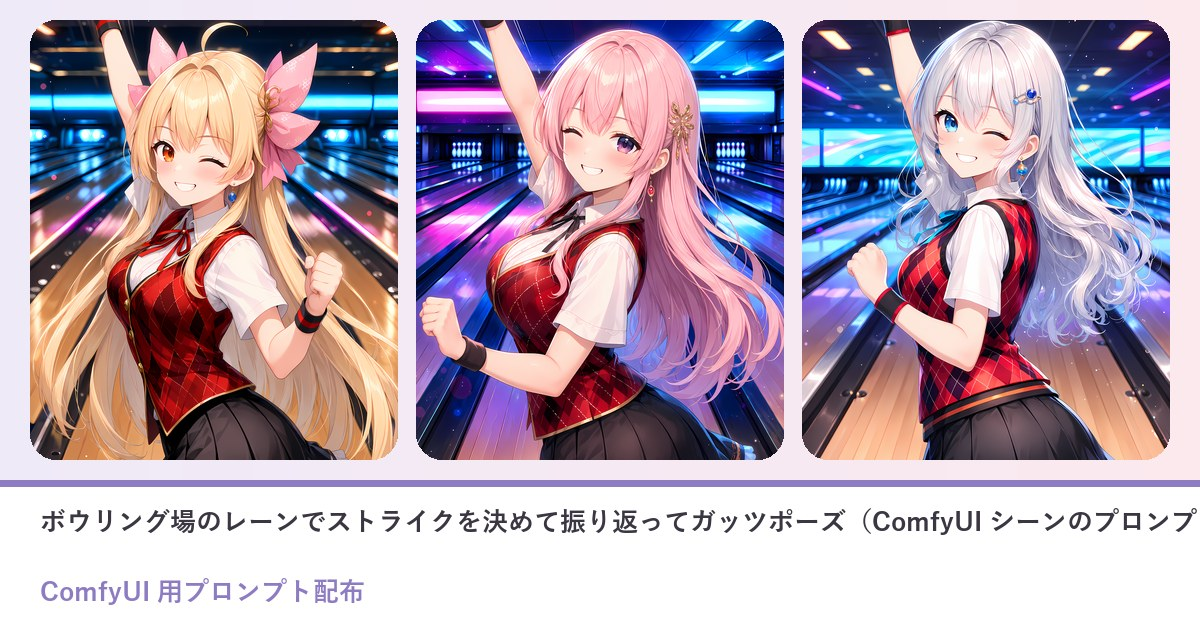
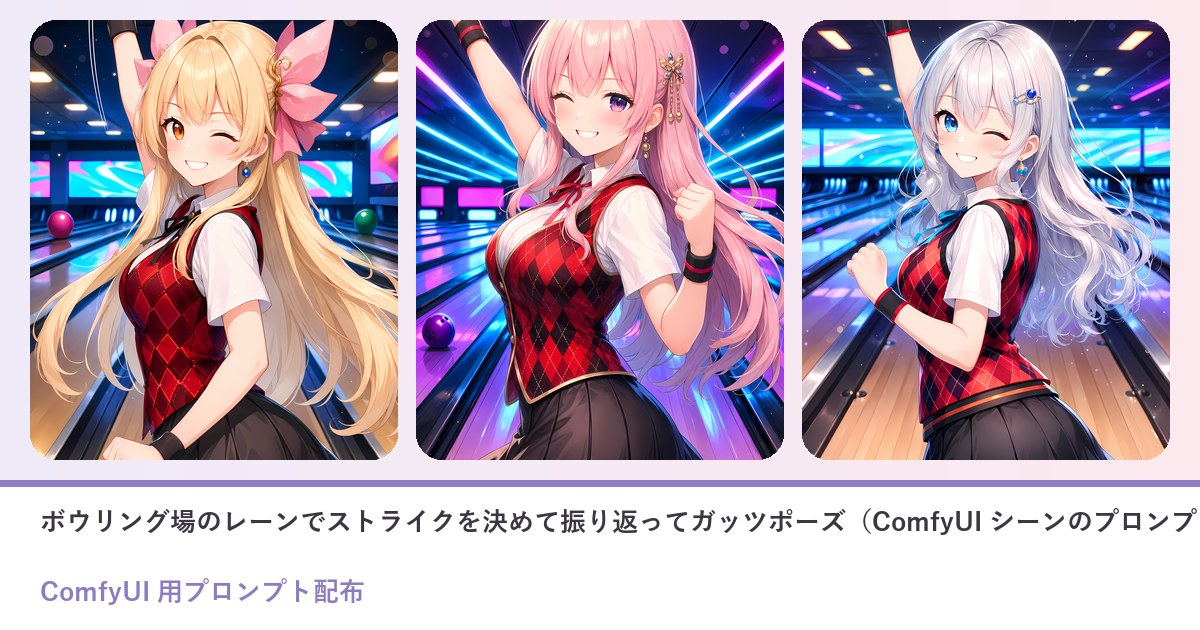
配布 11/08 三姉妹 ボウリング アイリス・フィオナの作例を指を直した版へ（るぴちゃん再生成・子 regen1107）

diff --git a/prompts/2026-11-08-comfy-xxqqeknv.html b/prompts/2026-11-08-comfy-xxqqeknv.html
@@ -1,4 +1,4 @@
-<!DOCTYPE html><html lang="ja"><head><meta charset="UTF-8"><meta name="robots" content="noindex, nofollow, noarchive"><meta name="referrer" content="strict-origin"><meta name="viewport" content="width=device-width, initial-scale=1.0"><meta name="google-site-verification" content="vmr51R1zcK5z3btUMgFGf_4-Veo8pUE7TCdoEpaSpaI"><title>ボウリング場のレーンでストライクを決めて振り返ってガッツポーズ（ComfyUI シーンのプロンプト）</title><meta name="description" content="ComfyUI（Anima）に貼るだけで、思わず声が出ちゃうストライクの一枚に。ネオンの灯るレトロなボウリング場、奥でピンが全部はじけ飛ぶのを背に、赤いベストの女の子がこちらへ振り返って、ウインクしながら片手でガッツポー"><link rel="icon" href="../favicon.ico" sizes="any"><link rel="icon" type="image/png" sizes="32x32" href="../favicon-32x32.png"><link rel="apple-touch-icon" href="../apple-touch-icon.png"><link rel="canonical" href="https://lupinusrossetti.github.io/AIBSPortfolioBlog/prompts/2026-11-08-comfy-xxqqeknv.html"><meta property="og:type" content="article"><meta property="og:site_name" content="Lupinus Rossetti | AI Bloom Sisters"><meta property="og:title" content="ボウリング場のレーンでストライクを決めて振り返ってガッツポーズ（ComfyUI シーンのプロンプト）"><meta property="og:description" content="ComfyUI（Anima）に貼るだけで、思わず声が出ちゃうストライクの一枚に。ネオンの灯るレトロなボウリング場、奥でピンが全部はじけ飛ぶのを背に、赤いベストの女の子がこちらへ振り返って、ウインクしながら片手でガッツポー"><meta property="og:url" content="https://lupinusrossetti.github.io/AIBSPortfolioBlog/prompts/2026-11-08-comfy-xxqqeknv.html"><meta property="og:image" content="https://lupinusrossetti.github.io/AIBSPortfolioBlog/prompts/img/2026-11-08-comfy-xxqqeknv/og.jpg"><meta name="twitter:card" content="summary_large_image"><meta name="twitter:site" content="@irisfionaAIBS"><meta name="twitter:title" content="ボウリング場のレーンでストライクを決めて振り返ってガッツポーズ（ComfyUI シーンのプロンプト）"><meta name="twitter:description" content="ComfyUI（Anima）に貼るだけで、思わず声が出ちゃうストライクの一枚に。ネオンの灯るレトロなボウリング場、奥でピンが全部はじけ飛ぶのを背に、赤いベストの女の子がこちらへ振り返って、ウインクしながら片手でガッツポー"><meta name="twitter:image" content="https://lupinusrossetti.github.io/AIBSPortfolioBlog/prompts/img/2026-11-08-comfy-xxqqeknv/og.jpg"><script type="application/ld+json">{"@context": "https://schema.org", "@type": "Article", "headline": "ボウリング場のレーンでストライクを決めて振り返ってガッツポーズ（ComfyUI シーンのプロンプト）", "description": "ComfyUI（Anima）に貼るだけで、思わず声が出ちゃうストライクの一枚に。ネオンの灯るレトロなボウリング場、奥でピンが全部はじけ飛ぶのを背に、赤いベストの女の子がこちらへ振り返って、ウインクしながら片手でガッツポー", "image": "https://lupinusrossetti.github.io/AIBSPortfolioBlog/prompts/img/2026-11-08-comfy-xxqqeknv/og.jpg", "url": "https://lupinusrossetti.github.io/AIBSPortfolioBlog/prompts/2026-11-08-comfy-xxqqeknv.html", "mainEntityOfPage": "https://lupinusrossetti.github.io/AIBSPortfolioBlog/prompts/2026-11-08-comfy-xxqqeknv.html", "author": {"@type": "Person", "name": "Lupinus Rossetti"}, "publisher": {"@type": "Organization", "name": "Lupinus Rossetti | AI Bloom Sisters", "logo": {"@type": "ImageObject", "url": "https://lupinusrossetti.github.io/AIBSPortfolioBlog/apple-touch-icon.png"}}, "inLanguage": "ja-JP"}</script><link rel="stylesheet" href="../assets/css/site.css"><link rel="stylesheet" href="../assets/css/decorations.css"><link rel="preconnect" href="https://fonts.googleapis.com"><link rel="preconnect" href="https://fonts.gstatic.com" crossorigin><link href="https://fonts.googleapis.com/css2?family=Great+Vibes&family=Cormorant+Garamond:ital,wght@0,400;0,500;0,600;1,400;1,500&family=Jost:wght@300;400;500&family=Shippori+Mincho:wght@400;500;600&family=Zen+Kaku+Gothic+New:wght@300;400;500&family=Zen+Maru+Gothic:wght@400;500;700&display=swap" rel="stylesheet"><style>:root{--ps-a:var(--lupinus,#8e7cc3);--ps-soft:var(--lupinus-soft,#efeaf8);--ps-line:var(--line,#ece7f1);--ps-ink:var(--ink-soft,#6f6a78)}
+<!DOCTYPE html><html lang="ja"><head><meta charset="UTF-8"><meta name="robots" content="noindex, nofollow, noarchive"><meta name="referrer" content="strict-origin"><meta name="viewport" content="width=device-width, initial-scale=1.0"><meta name="google-site-verification" content="vmr51R1zcK5z3btUMgFGf_4-Veo8pUE7TCdoEpaSpaI"><title>ボウリング場のレーンでストライクを決めて振り返ってガッツポーズ（ComfyUI シーンのプロンプト）</title><meta name="description" content="ComfyUI（Anima）に貼るだけで、思わず声が出ちゃうストライクの一枚に。ネオンの灯るレトロなボウリング場のレーンを背に、赤いベストの女の子がこちらへ振り返って、ウインクしながら片手でガッツポーズ。LoRA がない"><link rel="icon" href="../favicon.ico" sizes="any"><link rel="icon" type="image/png" sizes="32x32" href="../favicon-32x32.png"><link rel="apple-touch-icon" href="../apple-touch-icon.png"><link rel="canonical" href="https://lupinusrossetti.github.io/AIBSPortfolioBlog/prompts/2026-11-08-comfy-xxqqeknv.html"><meta property="og:type" content="article"><meta property="og:site_name" content="Lupinus Rossetti | AI Bloom Sisters"><meta property="og:title" content="ボウリング場のレーンでストライクを決めて振り返ってガッツポーズ（ComfyUI シーンのプロンプト）"><meta property="og:description" content="ComfyUI（Anima）に貼るだけで、思わず声が出ちゃうストライクの一枚に。ネオンの灯るレトロなボウリング場のレーンを背に、赤いベストの女の子がこちらへ振り返って、ウインクしながら片手でガッツポーズ。LoRA がない"><meta property="og:url" content="https://lupinusrossetti.github.io/AIBSPortfolioBlog/prompts/2026-11-08-comfy-xxqqeknv.html"><meta property="og:image" content="https://lupinusrossetti.github.io/AIBSPortfolioBlog/prompts/img/2026-11-08-comfy-xxqqeknv/og.jpg"><meta name="twitter:card" content="summary_large_image"><meta name="twitter:site" content="@irisfionaAIBS"><meta name="twitter:title" content="ボウリング場のレーンでストライクを決めて振り返ってガッツポーズ（ComfyUI シーンのプロンプト）"><meta name="twitter:description" content="ComfyUI（Anima）に貼るだけで、思わず声が出ちゃうストライクの一枚に。ネオンの灯るレトロなボウリング場のレーンを背に、赤いベストの女の子がこちらへ振り返って、ウインクしながら片手でガッツポーズ。LoRA がない"><meta name="twitter:image" content="https://lupinusrossetti.github.io/AIBSPortfolioBlog/prompts/img/2026-11-08-comfy-xxqqeknv/og.jpg"><script type="application/ld+json">{"@context": "https://schema.org", "@type": "Article", "headline": "ボウリング場のレーンでストライクを決めて振り返ってガッツポーズ（ComfyUI シーンのプロンプト）", "description": "ComfyUI（Anima）に貼るだけで、思わず声が出ちゃうストライクの一枚に。ネオンの灯るレトロなボウリング場のレーンを背に、赤いベストの女の子がこちらへ振り返って、ウインクしながら片手でガッツポーズ。LoRA がない", "image": "https://lupinusrossetti.github.io/AIBSPortfolioBlog/prompts/img/2026-11-08-comfy-xxqqeknv/og.jpg", "url": "https://lupinusrossetti.github.io/AIBSPortfolioBlog/prompts/2026-11-08-comfy-xxqqeknv.html", "mainEntityOfPage": "https://lupinusrossetti.github.io/AIBSPortfolioBlog/prompts/2026-11-08-comfy-xxqqeknv.html", "author": {"@type": "Person", "name": "Lupinus Rossetti"}, "publisher": {"@type": "Organization", "name": "Lupinus Rossetti | AI Bloom Sisters", "logo": {"@type": "ImageObject", "url": "https://lupinusrossetti.github.io/AIBSPortfolioBlog/apple-touch-icon.png"}}, "inLanguage": "ja-JP"}</script><link rel="stylesheet" href="../assets/css/site.css"><link rel="stylesheet" href="../assets/css/decorations.css"><link rel="preconnect" href="https://fonts.googleapis.com"><link rel="preconnect" href="https://fonts.gstatic.com" crossorigin><link href="https://fonts.googleapis.com/css2?family=Great+Vibes&family=Cormorant+Garamond:ital,wght@0,400;0,500;0,600;1,400;1,500&family=Jost:wght@300;400;500&family=Shippori+Mincho:wght@400;500;600&family=Zen+Kaku+Gothic+New:wght@300;400;500&family=Zen+Maru+Gothic:wght@400;500;700&display=swap" rel="stylesheet"><style>:root{--ps-a:var(--lupinus,#8e7cc3);--ps-soft:var(--lupinus-soft,#efeaf8);--ps-line:var(--line,#ece7f1);--ps-ink:var(--ink-soft,#6f6a78)}
 .ps{max-width:780px;margin:0 auto;padding:0 18px 40px}
 .ps h2{font-size:1.25rem;margin:40px 0 12px;color:var(--ps-a)}
 .ps .ps-lead{color:var(--ps-ink);line-height:1.9}
@@ -45,7 +45,7 @@
 @media(max-width:560px){.ps-ba{grid-template-columns:1fr}.ps-ba .arr{transform:rotate(90deg);text-align:center}.ps-vars,.ps-vars tbody,.ps-vars tr,.ps-vars th,.ps-vars td{display:block;width:auto;white-space:normal}.ps-vars tr:first-child{display:none}.ps-vars tr{border-bottom:1px solid var(--ps-line);padding:4px 0}.ps-vars th,.ps-vars td{border:0;padding:6px 12px}}
 .ps{overflow-wrap:anywhere}.ps-vars td,.ps-vars th{overflow-wrap:anywhere}.ps img{max-width:100%}
 </style><!--ps-meta {"date": "2026-11-08", "title": "ボウリング場のレーンでストライクを決めて振り返ってガッツポーズ（ComfyUI シーンのプロンプト）", "kind": "comfy", "nsfw": false, "summary": "ボウリング場のレーンで、ストライクを決めて振り返ってガッツポーズする一枚。LoRA なしでも貼るだけで綺麗に出ます。", "thumb": "img/2026-11-08-comfy-xxqqeknv/ex1.webp"}-->
-</head><body class="decor-page decor-bubble"><div class="page-decor" aria-hidden="true"><div class="decor-layer decor-bubble-layer"><i></i><i></i><i></i><i></i><i></i><i></i><i></i><i></i><i></i><i></i><i></i><i></i></div></div><header class="site-header"><div class="container"><a class="brand" href="../index.html"><span class="brand-script">Lupinus</span><span class="brand-sub">AI Bloom Sisters</span></a><button class="menu-toggle" aria-label="menu" onclick="document.getElementById('nav').classList.toggle('open')">≡</button><nav class="nav" id="nav"><a href="../index.html">Home</a><a href="../about.html">About</a><a href="../portfolio.html">Portfolio</a><a href="../gallery.html">Gallery</a><a href="../blog/index.html" class="active">Blog</a><a href="../sns.html">SNS</a><a href="../coming-soon.html">Contact</a></nav></div></header><main class="article"><header class="article-header"><div class="date">2026-11-08<span class="day-chip">プロンプト配布</span></div><h1>ボウリング場のレーンでストライクを決めて振り返ってガッツポーズ（ComfyUI シーンのプロンプト）</h1></header><div class="article-body"><div class="ps"><p><span class="ps-badge">ComfyUI 用</span><span class="ps-badge">2026-11-08</span></p><p class="ps-lead">ComfyUI（Anima）に貼るだけで、思わず声が出ちゃうストライクの一枚に。ネオンの灯るレトロなボウリング場、奥でピンが全部はじけ飛ぶのを背に、赤いベストの女の子がこちらへ振り返って、ウインクしながら片手でガッツポーズ。LoRA がない方は、1行目の髪の色と目の色を書き換えるだけで、あなたの子に近づけられます。</p><nav class="ps-toc" aria-label="目次"><p>📑 目次</p><ol><li><a href="#sec1">作例</a></li><li><a href="#sec2">3人のおしゃべり（ボウリング場のストライク）</a></li><li><a href="#sec3">使い方（3ステップ）</a></li><li><a href="#sec4">プロンプト</a></li><li><a href="#sec5">必要なもの（ComfyUI）</a></li><li><a href="#sec6">メモ</a></li><li><a href="#sec7">配布ルール</a></li></ol></nav><h2 id="sec1">作例</h2><div class="ps-ex"><figure><img src="img/2026-11-08-comfy-xxqqeknv/ex1.webp" alt="アイリスの LoRA で焼いた一枚（A のプロンプト）。ネオンが青とピンクに光るボウリング場のレーンで、横向きから振り返ってウインク、歯を見せてにかっと笑う。片腕を高く突き上げて、もう片方の手はぎゅっとこぶしのガッツポーズ、片足を跳ね上げて全身で「やったー！」。白いシャツに赤いリボン、赤いアーガイルのベストと黒いフリルのスカート、手首には黒と赤のリストバンド" loading="lazy"><figcaption>アイリスの LoRA で焼いた一枚（A のプロンプト）。ネオンが青とピンクに光るボウリング場のレーンで、横向きから振り返ってウインク、歯を見せてにかっと笑う。片腕を高く突き上げて、もう片方の手はぎゅっとこぶしのガッツポーズ、片足を跳ね上げて全身で「やったー！」。白いシャツに赤いリボン、赤いアーガイルのベストと黒いフリルのスカート、手首には黒と赤のリストバンド</figcaption></figure><figure><img src="img/2026-11-08-comfy-xxqqeknv/ex2.webp" alt="同じプロンプトをフィオナの LoRA で。ピンクの長い髪に紫の瞳、横向きから振り返ってウインク、歯を見せてにっこり。片手を高く突き上げて、もう片方はおなかの前でぎゅっとこぶし。赤いアーガイルのベストに黒いフリルのスカート、うしろにはネオンが青と紫に光るレーンがずらり" loading="lazy"><figcaption>同じプロンプトをフィオナの LoRA で。ピンクの長い髪に紫の瞳、横向きから振り返ってウインク、歯を見せてにっこり。片手を高く突き上げて、もう片方はおなかの前でぎゅっとこぶし。赤いアーガイルのベストに黒いフリルのスカート、うしろにはネオンが青と紫に光るレーンがずらり</figcaption></figure><figure><img src="img/2026-11-08-comfy-xxqqeknv/ex3.webp" alt="同じプロンプトをルピナスの LoRA で。銀色のふんわりした長い髪に青い瞳、振り返ってウインクしながらのガッツポーズ。腕を高く上げて、黒いリストバンドの手首もきゅっと。赤いアーガイルのベストと黒いスカート、奥には光るレーンと小さく並んだピン" loading="lazy"><figcaption>同じプロンプトをルピナスの LoRA で。銀色のふんわりした長い髪に青い瞳、振り返ってウインクしながらのガッツポーズ。腕を高く上げて、黒いリストバンドの手首もきゅっと。赤いアーガイルのベストと黒いスカート、奥には光るレーンと小さく並んだピン</figcaption></figure></div><p style="font-size:.82rem;color:var(--ps-ink)">※作例の画像の転載・保存しての再配布はご遠慮ください。</p><h2 id="sec2">3人のおしゃべり（ボウリング場のストライク）</h2><div class="ps-chat"><img src="img/2026-11-08-comfy-xxqqeknv/talk_fiona_normal.webp" alt="フィオナ" loading="lazy"><div><div class="who">フィオナ</div><div class="bub">ご報告です。アイリスちゃん、今日はもう三回ストライクを出しています。そのたびに決めポーズつきです</div></div></div><div class="ps-chat r"><img src="img/2026-11-08-comfy-xxqqeknv/talk_lupinus_happy.webp" alt="ルピナス" loading="lazy"><div><div class="who">ルピナス</div><div class="bub">採点係はわたしだよ。一回目のポーズは百点、二回目も百点、三回目も……百点！</div></div></div><div class="ps-chat r"><img src="img/2026-11-08-comfy-xxqqeknv/talk_iris_smug.webp" alt="アイリス" loading="lazy"><div><div class="who">アイリス</div><div class="bub">さっすがお姉ちゃん、見る目ある！ 次は振り返ってウインクのガッツポーズでいくよ！</div></div></div><div class="ps-chat"><img src="img/2026-11-08-comfy-xxqqeknv/talk_fiona_thinking.webp" alt="フィオナ" loading="lazy"><div><div class="who">フィオナ</div><div class="bub">お姉ちゃん、全部百点だと採点の意味がありません……。それに私は、ポーズよりピンの数が気になります</div></div></div><div class="ps-chat r"><img src="img/2026-11-08-comfy-xxqqeknv/talk_lupinus_wink.webp" alt="ルピナス" loading="lazy"><div><div class="who">ルピナス</div><div class="bub">だって、どのアイリスもかわいいんだもの。点はつけられても、差はつけられないよ</div></div></div><div class="ps-chat r"><img src="img/2026-11-08-comfy-xxqqeknv/talk_iris_laugh.webp" alt="アイリス" loading="lazy"><div><div class="who">アイリス</div><div class="bub">ほら、フィオナも審査員やって！ ストライクの「やったー！」は、全身で言うのが大事なんだから！</div></div></div><div class="ps-chat r"><img src="img/2026-11-08-comfy-xxqqeknv/talk_lupinus_normal.webp" alt="ルピナス" loading="lazy"><div><div class="who">ルピナス</div><div class="bub">今日の配布は、ネオンのボウリング場で、振り返ってガッツポーズを決める一枚だよ</div></div></div><div class="ps-chat"><img src="img/2026-11-08-comfy-xxqqeknv/talk_fiona_normal.webp" alt="フィオナ" loading="lazy"><div><div class="who">フィオナ</div><div class="bub">横から振り返るのは from side と looking back、ガッツポーズは fist pump と arm up です</div></div></div><div class="ps-chat r"><img src="img/2026-11-08-comfy-xxqqeknv/talk_iris_happy.webp" alt="アイリス" loading="lazy"><div><div class="who">アイリス</div><div class="bub">ウインクは one eye closed、歯を見せて笑うのは grin と teeth！ あたしの得意な顔！</div></div></div><div class="ps-chat"><img src="img/2026-11-08-comfy-xxqqeknv/talk_fiona_normal.webp" alt="フィオナ" loading="lazy"><div><div class="who">フィオナ</div><div class="bub">服は white shirt に argyle vest の赤いベスト、black skirt。ネオンは neon colors で出ます</div></div></div><div class="ps-chat r"><img src="img/2026-11-08-comfy-xxqqeknv/talk_lupinus_normal.webp" alt="ルピナス" loading="lazy"><div><div class="who">ルピナス</div><div class="bub">LoRA がなくても、いちばん上の行の髪と目を書きかえるだけ。あなたの子のポーズで焼いてね</div></div></div><div class="ps-chat r"><img src="img/2026-11-08-comfy-xxqqeknv/talk_iris_panic.webp" alt="アイリス" loading="lazy"><div><div class="who">アイリス</div><div class="bub">よーし、最後の一投……あっ、ガター！ 一本も倒れてない！</div></div></div><div class="ps-chat"><img src="img/2026-11-08-comfy-xxqqeknv/talk_fiona_laugh.webp" alt="フィオナ" loading="lazy"><div><div class="who">フィオナ</div><div class="bub">……それなのに、もう振り返ってガッツポーズをしていますね</div></div></div><div class="ps-chat r"><img src="img/2026-11-08-comfy-xxqqeknv/talk_lupinus_happy.webp" alt="ルピナス" loading="lazy"><div><div class="who">ルピナス</div><div class="bub">今のポーズも百点！ ピンは倒れなくても、ポーズは決まってたよ</div></div></div><div class="ps-chat"><img src="img/2026-11-08-comfy-xxqqeknv/talk_fiona_shy.webp" alt="フィオナ" loading="lazy"><div><div class="who">フィオナ</div><div class="bub">……では私も、今だけは採点をやめます。三人でハイタッチして、決めポーズにしましょう</div></div></div><div class="ps-chat r"><img src="img/2026-11-08-comfy-xxqqeknv/talk_iris_happy.webp" alt="アイリス" loading="lazy"><div><div class="who">アイリス</div><div class="bub">せーので、やったー！ あなたの子の「やったー！」のポーズも並べて見せてね！</div></div></div><h2 id="sec3">使い方（3ステップ）</h2><ol class="ps-steps"><li>ComfyUI で Anima のモデルを読み、基本の画像生成（テキストから画像）の画面にする</li><li>下の A（LoRA なし）か B（LoRA あり）のポジティブと、ネガティブをワンタップでコピーして貼る</li><li>「推奨値」の大きさ・steps・CFG にして生成する（できれば 1.5 倍の hires fix も）</li></ol><h2 id="sec4">プロンプト</h2><div class="ps-note" style="margin-bottom:12px"><b>変えるのは1行目の色の付いたところだけ</b>（先頭の <code>1girl, solo</code> などはそのまま）<ul><li>使うプロンプトは2通り＝<b>A. LoRA を持っていない人</b>／<b>B. 自分のキャラの LoRA を持っている人</b>。どちらも丸ごとコピーして貼るだけ</li><li>A は<b>そのまま</b>でも綺麗な女の子で出ます。自分のキャラにするなら1行目の髪の色・髪型・目の色を書き換えるだけ</li><li>B は1行目の <code>your_lora_trigger</code> を自分の LoRA のトリガー語に置きかえるだけ（LoRA の強さは下の表）</li><li>2行目から下（シーン）と、ネガティブプロンプトは変えずにそのまま</li><li>🚫 版権キャラの名前・版権キャラの LoRA を入れて使うのは固く禁止です（下の「配布ルール」）</li></ul></div><h3 style="margin:14px 0 8px">A. LoRA を持っていない人（そのままでもOK）</h3><div class="ps-box"><button class="ps-copy" type="button" data-target="ps-prompt">📋 ワンタップでコピー</button><p style="margin:0 0 8px;font-size:.82rem;color:var(--ps-a)">ポジティブプロンプト</p><pre>1girl, solo, <mark class="ps-in" data-key="キャラの行">very long hair, blonde hair, ahoge, orange eyes</mark>
+</head><body class="decor-page decor-bubble"><div class="page-decor" aria-hidden="true"><div class="decor-layer decor-bubble-layer"><i></i><i></i><i></i><i></i><i></i><i></i><i></i><i></i><i></i><i></i><i></i><i></i></div></div><header class="site-header"><div class="container"><a class="brand" href="../index.html"><span class="brand-script">Lupinus</span><span class="brand-sub">AI Bloom Sisters</span></a><button class="menu-toggle" aria-label="menu" onclick="document.getElementById('nav').classList.toggle('open')">≡</button><nav class="nav" id="nav"><a href="../index.html">Home</a><a href="../about.html">About</a><a href="../portfolio.html">Portfolio</a><a href="../gallery.html">Gallery</a><a href="../blog/index.html" class="active">Blog</a><a href="../sns.html">SNS</a><a href="../coming-soon.html">Contact</a></nav></div></header><main class="article"><header class="article-header"><div class="date">2026-11-08<span class="day-chip">プロンプト配布</span></div><h1>ボウリング場のレーンでストライクを決めて振り返ってガッツポーズ（ComfyUI シーンのプロンプト）</h1></header><div class="article-body"><div class="ps"><p><span class="ps-badge">ComfyUI 用</span><span class="ps-badge">2026-11-08</span></p><p class="ps-lead">ComfyUI（Anima）に貼るだけで、思わず声が出ちゃうストライクの一枚に。ネオンの灯るレトロなボウリング場のレーンを背に、赤いベストの女の子がこちらへ振り返って、ウインクしながら片手でガッツポーズ。LoRA がない方は、1行目の髪の色と目の色を書き換えるだけで、あなたの子に近づけられます。</p><nav class="ps-toc" aria-label="目次"><p>📑 目次</p><ol><li><a href="#sec1">作例</a></li><li><a href="#sec2">3人のおしゃべり（ボウリング場のストライク）</a></li><li><a href="#sec3">使い方（3ステップ）</a></li><li><a href="#sec4">プロンプト</a></li><li><a href="#sec5">必要なもの（ComfyUI）</a></li><li><a href="#sec6">メモ</a></li><li><a href="#sec7">配布ルール</a></li></ol></nav><h2 id="sec1">作例</h2><div class="ps-ex"><figure><img src="img/2026-11-08-comfy-xxqqeknv/ex1.webp" alt="アイリスの LoRA で焼いた一枚（A のプロンプト）。ネオンの画面が光るボウリング場のレーンで、横向きから振り返ってウインク、歯を見せてにかっと笑う。片腕を高く突き上げてこぶし、もう片方の手も腰の横でぎゅっとこぶしのガッツポーズ。うしろのレーンにはピンクと緑の球。白いシャツに黒いリボン、赤いアーガイルのベストと黒いフリルのスカート、手首には黒いリストバンド" loading="lazy"><figcaption>アイリスの LoRA で焼いた一枚（A のプロンプト）。ネオンの画面が光るボウリング場のレーンで、横向きから振り返ってウインク、歯を見せてにかっと笑う。片腕を高く突き上げてこぶし、もう片方の手も腰の横でぎゅっとこぶしのガッツポーズ。うしろのレーンにはピンクと緑の球。白いシャツに黒いリボン、赤いアーガイルのベストと黒いフリルのスカート、手首には黒いリストバンド</figcaption></figure><figure><img src="img/2026-11-08-comfy-xxqqeknv/ex2.webp" alt="同じプロンプトをフィオナの LoRA で。ピンクの長い髪に紫の瞳、横向きから振り返ってウインク、歯を見せてにっこり。片手を高く突き上げて、もう片方は胸の前でぎゅっとこぶし、片足を跳ね上げて全身で「やったー！」。赤いリボンに赤いアーガイルのベスト、黒いフリルのスカート、うしろにはネオンが青と紫に光るレーンと紫の球" loading="lazy"><figcaption>同じプロンプトをフィオナの LoRA で。ピンクの長い髪に紫の瞳、横向きから振り返ってウインク、歯を見せてにっこり。片手を高く突き上げて、もう片方は胸の前でぎゅっとこぶし、片足を跳ね上げて全身で「やったー！」。赤いリボンに赤いアーガイルのベスト、黒いフリルのスカート、うしろにはネオンが青と紫に光るレーンと紫の球</figcaption></figure><figure><img src="img/2026-11-08-comfy-xxqqeknv/ex3.webp" alt="同じプロンプトをルピナスの LoRA で。銀色のふんわりした長い髪に青い瞳、振り返ってウインクしながらのガッツポーズ。腕を高く上げて、黒いリストバンドの手首もきゅっと。赤いアーガイルのベストと黒いスカート、奥には光るレーンと小さく並んだピン" loading="lazy"><figcaption>同じプロンプトをルピナスの LoRA で。銀色のふんわりした長い髪に青い瞳、振り返ってウインクしながらのガッツポーズ。腕を高く上げて、黒いリストバンドの手首もきゅっと。赤いアーガイルのベストと黒いスカート、奥には光るレーンと小さく並んだピン</figcaption></figure></div><p style="font-size:.82rem;color:var(--ps-ink)">※作例の画像の転載・保存しての再配布はご遠慮ください。</p><h2 id="sec2">3人のおしゃべり（ボウリング場のストライク）</h2><div class="ps-chat"><img src="img/2026-11-08-comfy-xxqqeknv/talk_fiona_normal.webp" alt="フィオナ" loading="lazy"><div><div class="who">フィオナ</div><div class="bub">ご報告です。アイリスちゃん、今日はもう三回ストライクを出しています。そのたびに決めポーズつきです</div></div></div><div class="ps-chat r"><img src="img/2026-11-08-comfy-xxqqeknv/talk_lupinus_happy.webp" alt="ルピナス" loading="lazy"><div><div class="who">ルピナス</div><div class="bub">採点係はわたしだよ。一回目のポーズは百点、二回目も百点、三回目も……百点！</div></div></div><div class="ps-chat r"><img src="img/2026-11-08-comfy-xxqqeknv/talk_iris_smug.webp" alt="アイリス" loading="lazy"><div><div class="who">アイリス</div><div class="bub">さっすがお姉ちゃん、見る目ある！ 次は振り返ってウインクのガッツポーズでいくよ！</div></div></div><div class="ps-chat"><img src="img/2026-11-08-comfy-xxqqeknv/talk_fiona_thinking.webp" alt="フィオナ" loading="lazy"><div><div class="who">フィオナ</div><div class="bub">お姉ちゃん、全部百点だと採点の意味がありません……。それに私は、ポーズよりピンの数が気になります</div></div></div><div class="ps-chat r"><img src="img/2026-11-08-comfy-xxqqeknv/talk_lupinus_wink.webp" alt="ルピナス" loading="lazy"><div><div class="who">ルピナス</div><div class="bub">だって、どのアイリスもかわいいんだもの。点はつけられても、差はつけられないよ</div></div></div><div class="ps-chat r"><img src="img/2026-11-08-comfy-xxqqeknv/talk_iris_laugh.webp" alt="アイリス" loading="lazy"><div><div class="who">アイリス</div><div class="bub">ほら、フィオナも審査員やって！ ストライクの「やったー！」は、全身で言うのが大事なんだから！</div></div></div><div class="ps-chat r"><img src="img/2026-11-08-comfy-xxqqeknv/talk_lupinus_normal.webp" alt="ルピナス" loading="lazy"><div><div class="who">ルピナス</div><div class="bub">今日の配布は、ネオンのボウリング場で、振り返ってガッツポーズを決める一枚だよ</div></div></div><div class="ps-chat"><img src="img/2026-11-08-comfy-xxqqeknv/talk_fiona_normal.webp" alt="フィオナ" loading="lazy"><div><div class="who">フィオナ</div><div class="bub">横から振り返るのは from side と looking back、ガッツポーズは fist pump と arm up です</div></div></div><div class="ps-chat r"><img src="img/2026-11-08-comfy-xxqqeknv/talk_iris_happy.webp" alt="アイリス" loading="lazy"><div><div class="who">アイリス</div><div class="bub">ウインクは one eye closed、歯を見せて笑うのは grin と teeth！ あたしの得意な顔！</div></div></div><div class="ps-chat"><img src="img/2026-11-08-comfy-xxqqeknv/talk_fiona_normal.webp" alt="フィオナ" loading="lazy"><div><div class="who">フィオナ</div><div class="bub">服は white shirt に argyle vest の赤いベスト、black skirt。ネオンは neon colors で出ます</div></div></div><div class="ps-chat r"><img src="img/2026-11-08-comfy-xxqqeknv/talk_lupinus_normal.webp" alt="ルピナス" loading="lazy"><div><div class="who">ルピナス</div><div class="bub">LoRA がなくても、いちばん上の行の髪と目を書きかえるだけ。あなたの子のポーズで焼いてね</div></div></div><div class="ps-chat r"><img src="img/2026-11-08-comfy-xxqqeknv/talk_iris_panic.webp" alt="アイリス" loading="lazy"><div><div class="who">アイリス</div><div class="bub">よーし、最後の一投……あっ、ガター！ 一本も倒れてない！</div></div></div><div class="ps-chat"><img src="img/2026-11-08-comfy-xxqqeknv/talk_fiona_laugh.webp" alt="フィオナ" loading="lazy"><div><div class="who">フィオナ</div><div class="bub">……それなのに、もう振り返ってガッツポーズをしていますね</div></div></div><div class="ps-chat r"><img src="img/2026-11-08-comfy-xxqqeknv/talk_lupinus_happy.webp" alt="ルピナス" loading="lazy"><div><div class="who">ルピナス</div><div class="bub">今のポーズも百点！ ピンは倒れなくても、ポーズは決まってたよ</div></div></div><div class="ps-chat"><img src="img/2026-11-08-comfy-xxqqeknv/talk_fiona_shy.webp" alt="フィオナ" loading="lazy"><div><div class="who">フィオナ</div><div class="bub">……では私も、今だけは採点をやめます。三人でハイタッチして、決めポーズにしましょう</div></div></div><div class="ps-chat r"><img src="img/2026-11-08-comfy-xxqqeknv/talk_iris_happy.webp" alt="アイリス" loading="lazy"><div><div class="who">アイリス</div><div class="bub">せーので、やったー！ あなたの子の「やったー！」のポーズも並べて見せてね！</div></div></div><h2 id="sec3">使い方（3ステップ）</h2><ol class="ps-steps"><li>ComfyUI で Anima のモデルを読み、基本の画像生成（テキストから画像）の画面にする</li><li>下の A（LoRA なし）か B（LoRA あり）のポジティブと、ネガティブをワンタップでコピーして貼る</li><li>「推奨値」の大きさ・steps・CFG にして生成する（できれば 1.5 倍の hires fix も）</li></ol><h2 id="sec4">プロンプト</h2><div class="ps-note" style="margin-bottom:12px"><b>変えるのは1行目の色の付いたところだけ</b>（先頭の <code>1girl, solo</code> などはそのまま）<ul><li>使うプロンプトは2通り＝<b>A. LoRA を持っていない人</b>／<b>B. 自分のキャラの LoRA を持っている人</b>。どちらも丸ごとコピーして貼るだけ</li><li>A は<b>そのまま</b>でも綺麗な女の子で出ます。自分のキャラにするなら1行目の髪の色・髪型・目の色を書き換えるだけ</li><li>B は1行目の <code>your_lora_trigger</code> を自分の LoRA のトリガー語に置きかえるだけ（LoRA の強さは下の表）</li><li>2行目から下（シーン）と、ネガティブプロンプトは変えずにそのまま</li><li>🚫 版権キャラの名前・版権キャラの LoRA を入れて使うのは固く禁止です（下の「配布ルール」）</li></ul></div><h3 style="margin:14px 0 8px">A. LoRA を持っていない人（そのままでもOK）</h3><div class="ps-box"><button class="ps-copy" type="button" data-target="ps-prompt">📋 ワンタップでコピー</button><p style="margin:0 0 8px;font-size:.82rem;color:var(--ps-a)">ポジティブプロンプト</p><pre>1girl, solo, <mark class="ps-in" data-key="キャラの行">very long hair, blonde hair, ahoge, orange eyes</mark>
 masterpiece, best quality, score_7, safe, cowboy shot, from side, looking back, looking at viewer, clenched hand, fist pump, arm up, grin, open mouth, teeth, one eye closed, blush, bowling ball, bowling pin, flying pins, white shirt, collared shirt, neck ribbon, short sleeves, red vest, argyle vest, black skirt, pleated skirt, frilled skirt, white socks, bowling shoes, wristband, hair ornament, earrings, bowling alley, wooden floor, lane, neon lights, retro, motion lines, night, indoors, neon colors, vivid colors, color contrast, depth of field, bokeh, light particles</pre><textarea class="ps-copyarea" id="ps-prompt" readonly aria-hidden="true" tabindex="-1">1girl, solo, very long hair, blonde hair, ahoge, orange eyes
 masterpiece, best quality, score_7, safe, cowboy shot, from side, looking back, looking at viewer, clenched hand, fist pump, arm up, grin, open mouth, teeth, one eye closed, blush, bowling ball, bowling pin, flying pins, white shirt, collared shirt, neck ribbon, short sleeves, red vest, argyle vest, black skirt, pleated skirt, frilled skirt, white socks, bowling shoes, wristband, hair ornament, earrings, bowling alley, wooden floor, lane, neon lights, retro, motion lines, night, indoors, neon colors, vivid colors, color contrast, depth of field, bokeh, light particles</textarea></div><h3 style="margin:18px 0 8px">B. 自分のキャラの LoRA を持っている人</h3><div class="ps-box"><button class="ps-copy" type="button" data-target="ps-prompt-lora">📋 ワンタップでコピー</button><p style="margin:0 0 8px;font-size:.82rem;color:var(--ps-a)">ポジティブプロンプト（LoRA 用）</p><pre>1girl, solo, <mark class="ps-in" data-key="キャラの行">your_lora_trigger</mark>
 masterpiece, best quality, score_7, safe, cowboy shot, from side, looking back, looking at viewer, clenched hand, fist pump, arm up, grin, open mouth, teeth, one eye closed, blush, bowling ball, bowling pin, flying pins, white shirt, collared shirt, neck ribbon, short sleeves, red vest, argyle vest, black skirt, pleated skirt, frilled skirt, white socks, bowling shoes, wristband, hair ornament, earrings, bowling alley, wooden floor, lane, neon lights, retro, motion lines, night, indoors, neon colors, vivid colors, color contrast, depth of field, bokeh, light particles</pre><textarea class="ps-copyarea" id="ps-prompt-lora" readonly aria-hidden="true" tabindex="-1">1girl, solo, your_lora_trigger
